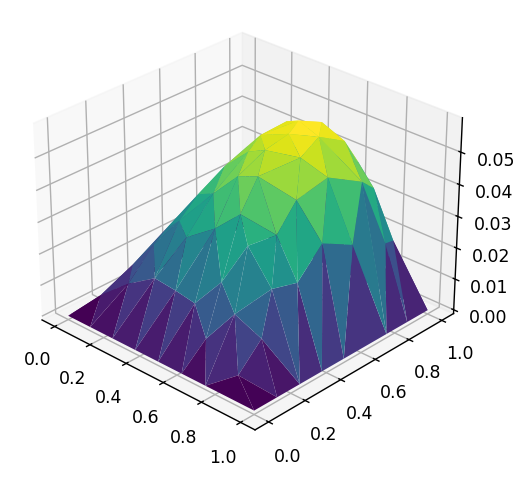
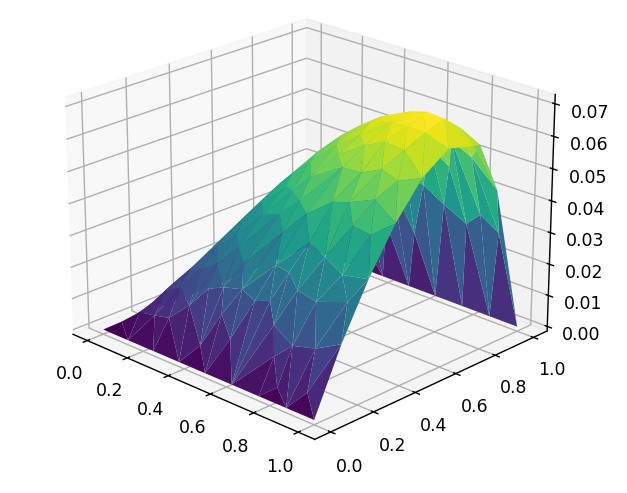
added contour integrals support

diff --git a/form_language/integrals.py b/form_language/integrals.py
@@ -16,7 +16,8 @@ class Integral:
     def __init__(self, measure_map: Dict[Measure, Expression] | None = None):
         self.measure_map: Dict[Measure, Expression] = measure_map
         self.quad_map: Dict[Measure, Callable] = {
-            Measure.DX: self.__quad_space # only supporting space integrals for now
+            Measure.DX: self.__quad_space,
+            Measure.DS: self.__quad_boundary
         }
 
     def __add__(self, other: Integral):
@@ -24,6 +25,8 @@ class Integral:
         for k, v in other.measure_map.items():
             if k in res:
                 res[k] += v
+            else:
+                res[k] = v
         return Integral(measure_map=res)
 
     def __sub__(self, other: Integral):
@@ -33,7 +36,7 @@ class Integral:
                 res[k] -= v
         return Integral(measure_map=res)
 
-    def __quad_space(self, f, v0, v1, v2):
+    def __quad_space(self, f, v0, v1, v2, v0_on_bnd: bool, v1_on_bnd: bool, v2_on_bnd: bool):
         points = [
             (1 / 2, 1 / 2, 0),
             (1 / 2, 0, 1 / 2),
@@ -46,7 +49,19 @@ class Integral:
             result += f(p[0], p[1])
         return result * area / 3.0
 
-    def eval(self, v0, v1, v2, trial_func: Callable[[float, float], np.ndarray] | None, test_func: Callable[[float, float], np.ndarray] | None) -> float:
+    def __quad_boundary(self, f, v0, v1, v2, v0_on_bnd: bool, v1_on_bnd: bool, v2_on_bnd: bool):
+        vl = [v0, v1, v2, v0]
+        vbndl = [v0_on_bnd, v1_on_bnd, v2_on_bnd, v0_on_bnd]
+        edges = []
+        for i in range(len(vl)-1):
+            if vbndl[i] and vbndl[i+1]:
+                edges.append([vl[i], vl[i+1]])
+        res = 0
+        for b, e in edges:
+            res += (f(b[0], b[1]) + f(e[0], e[1])) * np.linalg.norm(e - b) / 2.0
+        return res
+
+    def eval(self, v0, v1, v2, v0_on_bnd, v1_on_bnd, v2_on_bnd, trial_func: Callable[[float, float], np.ndarray] | None, test_func: Callable[[float, float], np.ndarray] | None) -> float:
         res = 0
         for measure, expr in self.measure_map.items():
             quad = self.quad_map[measure]
@@ -55,7 +70,7 @@ class Integral:
             if expr.test is not None:
                 expr.test.set_eval(test_func)
             f = lambda x, y: expr.eval(x, y)
-            res += quad(f, v0, v1, v2)
+            res += quad(f, v0, v1, v2, v0_on_bnd, v1_on_bnd, v2_on_bnd)
             expr.clear_trial_test_pair()
         return res
 

diff --git a/form_language/expressions.py b/form_language/expressions.py
@@ -62,11 +62,11 @@ class Expression:
             other if other.func_type == FuncType.TEST else other.test
         )
 
-    def __op_aux(self, other, matrix_op: Callable[[np.ndarray, np.ndarray], np.ndarray], exclude_numbers: bool) -> Expression:
-        if not exclude_numbers and isinstance(other, (int, float)):
+    def __op_aux(self, other, matrix_op: Callable[[np.ndarray, np.ndarray], np.ndarray], use_mul_for_numbers: bool) -> Expression:
+        if use_mul_for_numbers and isinstance(other, (int, float)):
             eval_func=lambda x, y, ev=self.eval, other=other: ev(x, y) * other
             trial, test = self.__get_trial_test_pair()
-        elif isinstance(other, np.ndarray):
+        elif isinstance(other, np.ndarray) or (not use_mul_for_numbers and isinstance(other, (int, float))):
             eval_func=lambda x, y, matrix_op=matrix_op, ev=self.eval, other=other: matrix_op(ev(x, y), other)
             trial, test = self.__get_trial_test_pair()
         elif isinstance(other, Expression):
@@ -92,13 +92,13 @@ class Expression:
         return a @ b
 
     def __mul__(self, other):
-        return self.__op_aux(other=other, matrix_op=lambda a, b: self.matr_mul(a, b), exclude_numbers=False)
+        return self.__op_aux(other=other, matrix_op=lambda a, b: self.matr_mul(a, b), use_mul_for_numbers=True)
 
     def __rmul__(self, other):
-        return self.__op_aux(other=other, matrix_op=lambda a, b: self.matr_mul(b, a), exclude_numbers=False)
+        return self.__op_aux(other=other, matrix_op=lambda a, b: self.matr_mul(b, a), use_mul_for_numbers=True)
 
     def __add__(self, other):
-        return self.__op_aux(other=other, matrix_op=lambda a, b: a + b, exclude_numbers=True)
+        return self.__op_aux(other=other, matrix_op=lambda a, b: a + b, use_mul_for_numbers=False)
 
     def __radd__(self, other):
         return self + other

diff --git a/solver/solve.py b/solver/solve.py
@@ -74,6 +74,11 @@ class Solver:
             v1 = self.v[triangle[0]]
             v2 = self.v[triangle[1]]
             v3 = self.v[triangle[2]]
+
+            v1_on_boundary = self.v_markers[triangle[0]][0] == 1
+            v2_on_boundary = self.v_markers[triangle[1]][0] == 1
+            v3_on_boundary = self.v_markers[triangle[2]][0] == 1
+
             fe = self.fe((v1, v2, v3))
             ldofs = fe.ordered_dofs
 
@@ -90,6 +95,9 @@ class Solver:
                         np.array(v1),
                         np.array(v2),
                         np.array(v3),
+                        v1_on_boundary,
+                        v2_on_boundary,
+                        v3_on_boundary,
                         phi_j,
                         phi_i
                     )
@@ -97,6 +105,9 @@ class Solver:
                     np.array(v1),
                     np.array(v2),
                     np.array(v3),
+                    v1_on_boundary,
+                    v2_on_boundary,
+                    v3_on_boundary,
                     None,
                     phi_i
                 )

diff --git a/main.py b/main.py
@@ -14,12 +14,20 @@ sigma = 1
 beta = Function(lambda x, y: np.array([5, 5]))
 f = Function(lambda x, y: np.array([1]))
 
-a = integrate(mu * grad(u) * grad(v) + v * beta * grad(u) + sigma * u * v, Measure.DX)
-L = integrate(f * v, Measure.DX)
+alpha = 1
+u_out = 0.01
 
-mesh = Mesh([(0, 0), (1, 0), (1, 1), (0, 1)], area=0.01)
+a = (
+    integrate(mu * grad(u) * grad(v) + v * beta * grad(u) + sigma * u * v, Measure.DX)
+    + integrate(alpha * u * v, Measure.DS)
+)
+L = integrate(f * v, Measure.DX) + integrate(alpha * u_out * v, Measure.DS)
 
-solver = Solver(a, L, mesh, LagrangeQuadraticElement, lambda x, y, on_bnd: on_bnd)
+mesh = Mesh([(0, 0), (1, 0), (1, 1), (0, 1)], area=0.005)
+
+dirichlet_zero_marker = lambda x, y, on_bnd: on_bnd and (x<0.001 or y<0.001 or y>0.999)
+
+solver = Solver(a, L, mesh, LagrangeQuadraticElement, dirichlet_zero_marker)
 
 sol, tri, vdofs, _, _, actual_dofs, total_dofs = solver.assemble_and_solve()
 

diff --git a/README.md b/README.md
@@ -10,18 +10,16 @@ Very simple educational example of FEM lib implementation similar to FEniCS.
 
 1. definition of finite elements of any order by adjoint basis on triangle
 2. abstract form language for defining linear problems
-3. only Dirichlet boundary condition is supported now
-4. contour integrals are not supported for now
-5. any geometry can be defined
-6. triangle lib is used for triangulations
+5. any geometry
+6. **triangle** lib is used for triangulations
 7. limited to 2D problems
 8. implemented plotter is limited to output of vertex values only
 
 ## Notes
 
-Project is created for educational purposes.
+Library is created for educational purposes and can contain bugs.
 
-Written without code generation by AI tools.
+**Written without code generation by AI tools.**
 
 *Copyright (c) 2026 Roman Drebotiy*
 
